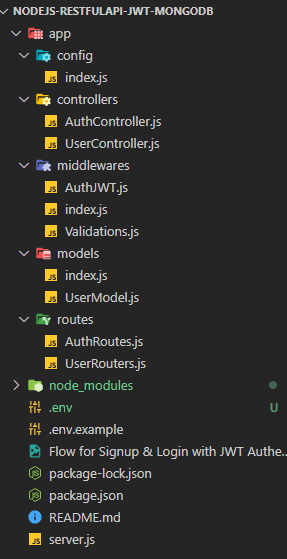
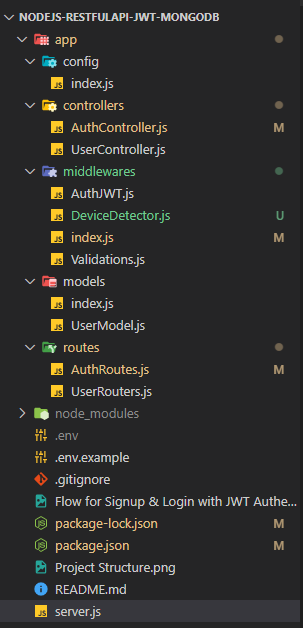
Add Feature "Device Detector"

diff --git a/app/middlewares/DeviceDetector.js b/app/middlewares/DeviceDetector.js
@@ -1,0 +1,26 @@
+const DeviceDetector = require('device-detector-js');
+
+index = (req, res, next) => {
+    // const userAgent = req.headers['user-agent'];
+    // console.log(userAgent);
+    // return res.status(200).send({ code: 200, 'user-agent': userAgent });
+
+    const deviceDetector = new DeviceDetector();
+    const userAgent = req.headers['user-agent'];
+    const device = deviceDetector.parse(userAgent);
+
+    req.deviceInfo = device;
+
+    next();
+
+    // let message = `Kamu menggunakan ${device.device.type}`;
+    // message += ` dengan os ${device.os.name}`;
+    // message += ` dan aplikasi ${device.client.type}`;
+
+    // return res.status(200).json({
+    //     success: true,
+    //     message: message,
+    // });
+};
+
+module.exports = { index };

diff --git a/app/routes/AuthRoutes.js b/app/routes/AuthRoutes.js
@@ -1,5 +1,5 @@
 const router = require('express').Router();
-const { Validations } = require('../middlewares');
+const { Validations, DeviceDetector } = require('../middlewares');
 const AuthController = require('../controllers/AuthController');
 
 router.post(
@@ -8,6 +8,10 @@ router.post(
     AuthController.signUp,
 );
 
-router.post('/signin', [Validations.signInValidation], AuthController.signIn);
+router.post(
+    '/signin',
+    [Validations.signInValidation, DeviceDetector.index],
+    AuthController.signIn,
+);
 
 module.exports = router;

diff --git a/app/middlewares/index.js b/app/middlewares/index.js
@@ -1,4 +1,5 @@
 const AuthJWT = require('./AuthJWT');
 const Validations = require('./Validations');
+const DeviceDetector = require('./DeviceDetector');
 
-module.exports = { AuthJWT, Validations };
+module.exports = { AuthJWT, Validations, DeviceDetector };

diff --git a/app/controllers/AuthController.js b/app/controllers/AuthController.js
@@ -58,6 +58,7 @@ signIn = (req, res) => {
                     email: user.email,
                     token: token,
                 },
+                'device-info': req.deviceInfo,
             });
     });
 };

diff --git a/README.md b/README.md
@@ -1,8 +1,9 @@
-# Restful API with MongoDB : User Authentication + CRUD & Authentication JWT (Json Web Token)
+# Restful API with MongoDB : User Authentication + CRUD, Authentication JWT (Json Web Token) & Device Detector User Login
 
 ## Technology Used
 
 -   `bcryptjs: ^2.4.3`
+-   `device-detector-js: ^3.0.0`
 -   `cors: ^2.8.5`
 -   `dotenv: ^10.0.0`
 -   `express: ^4.17.1`
@@ -141,6 +142,17 @@ Request :
             "email": "string",
             "username": "string",
             "createdAt": "date-string"
+        },
+        "device-info": {
+            "client": {
+                "type": "string",
+                "name": "string",
+                "version": "string",
+                "url": "string"
+            },
+            "os": "string",
+            "device": "string",
+            "bot": "string"
         }
     }
     ```
